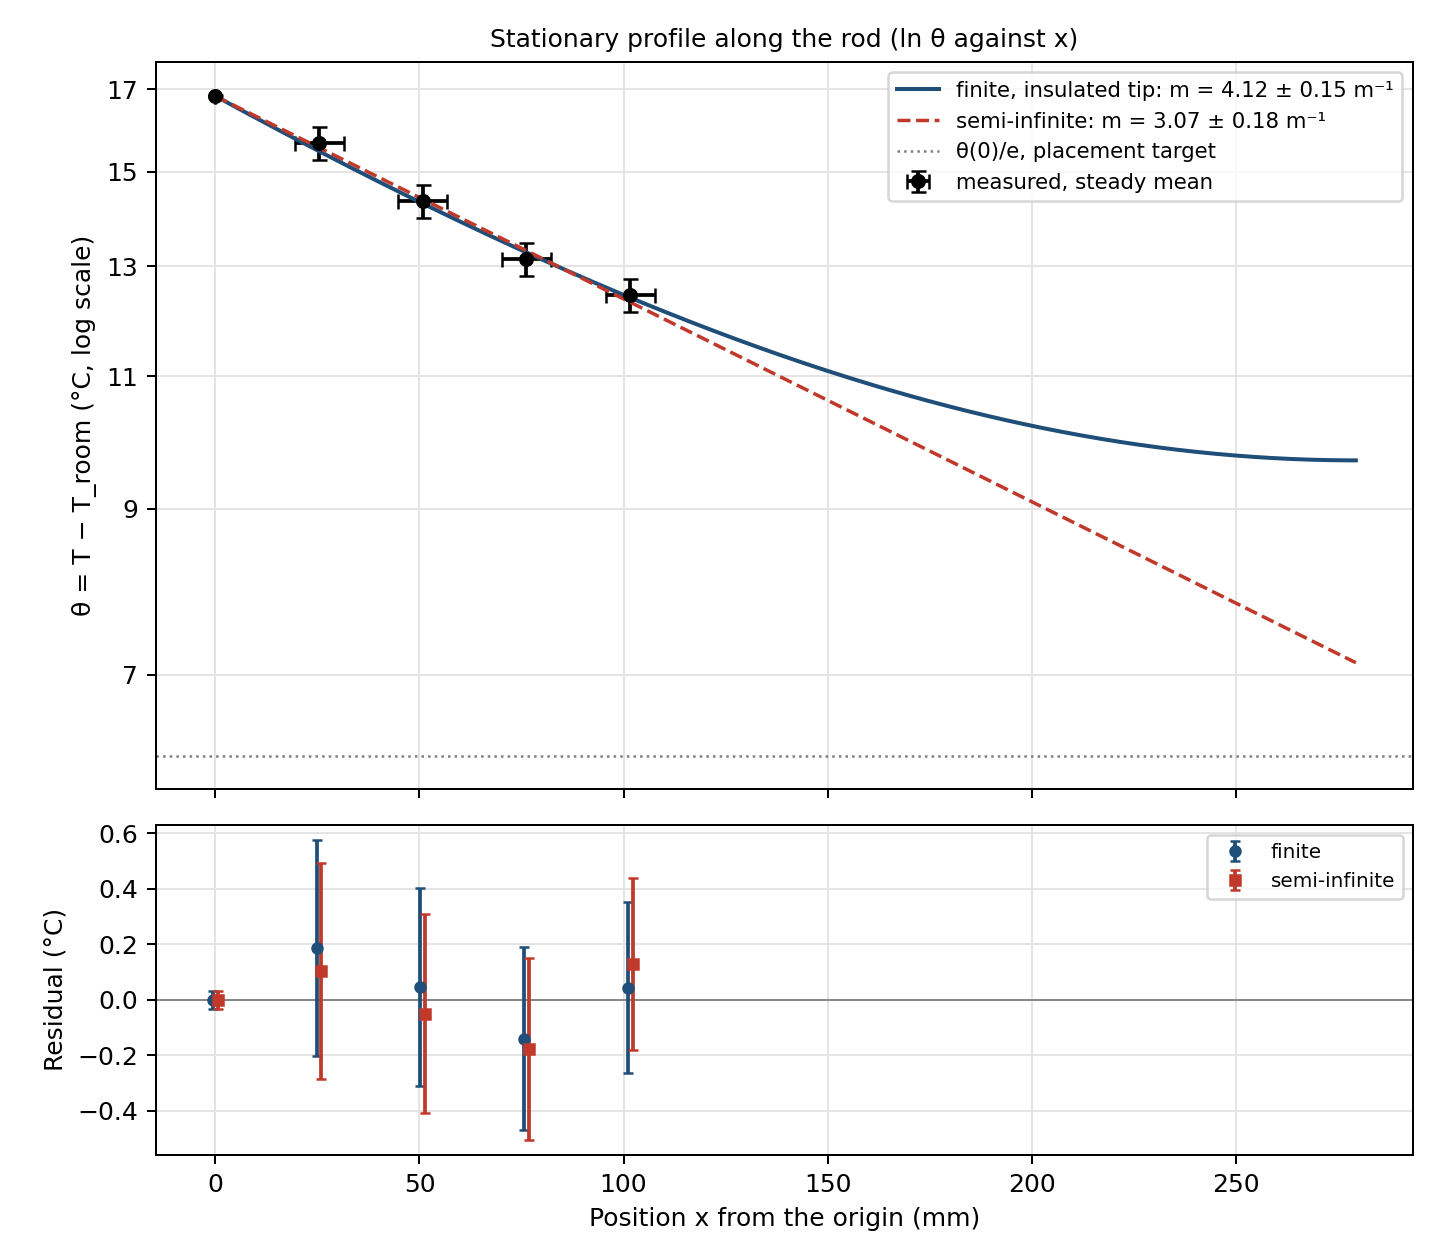
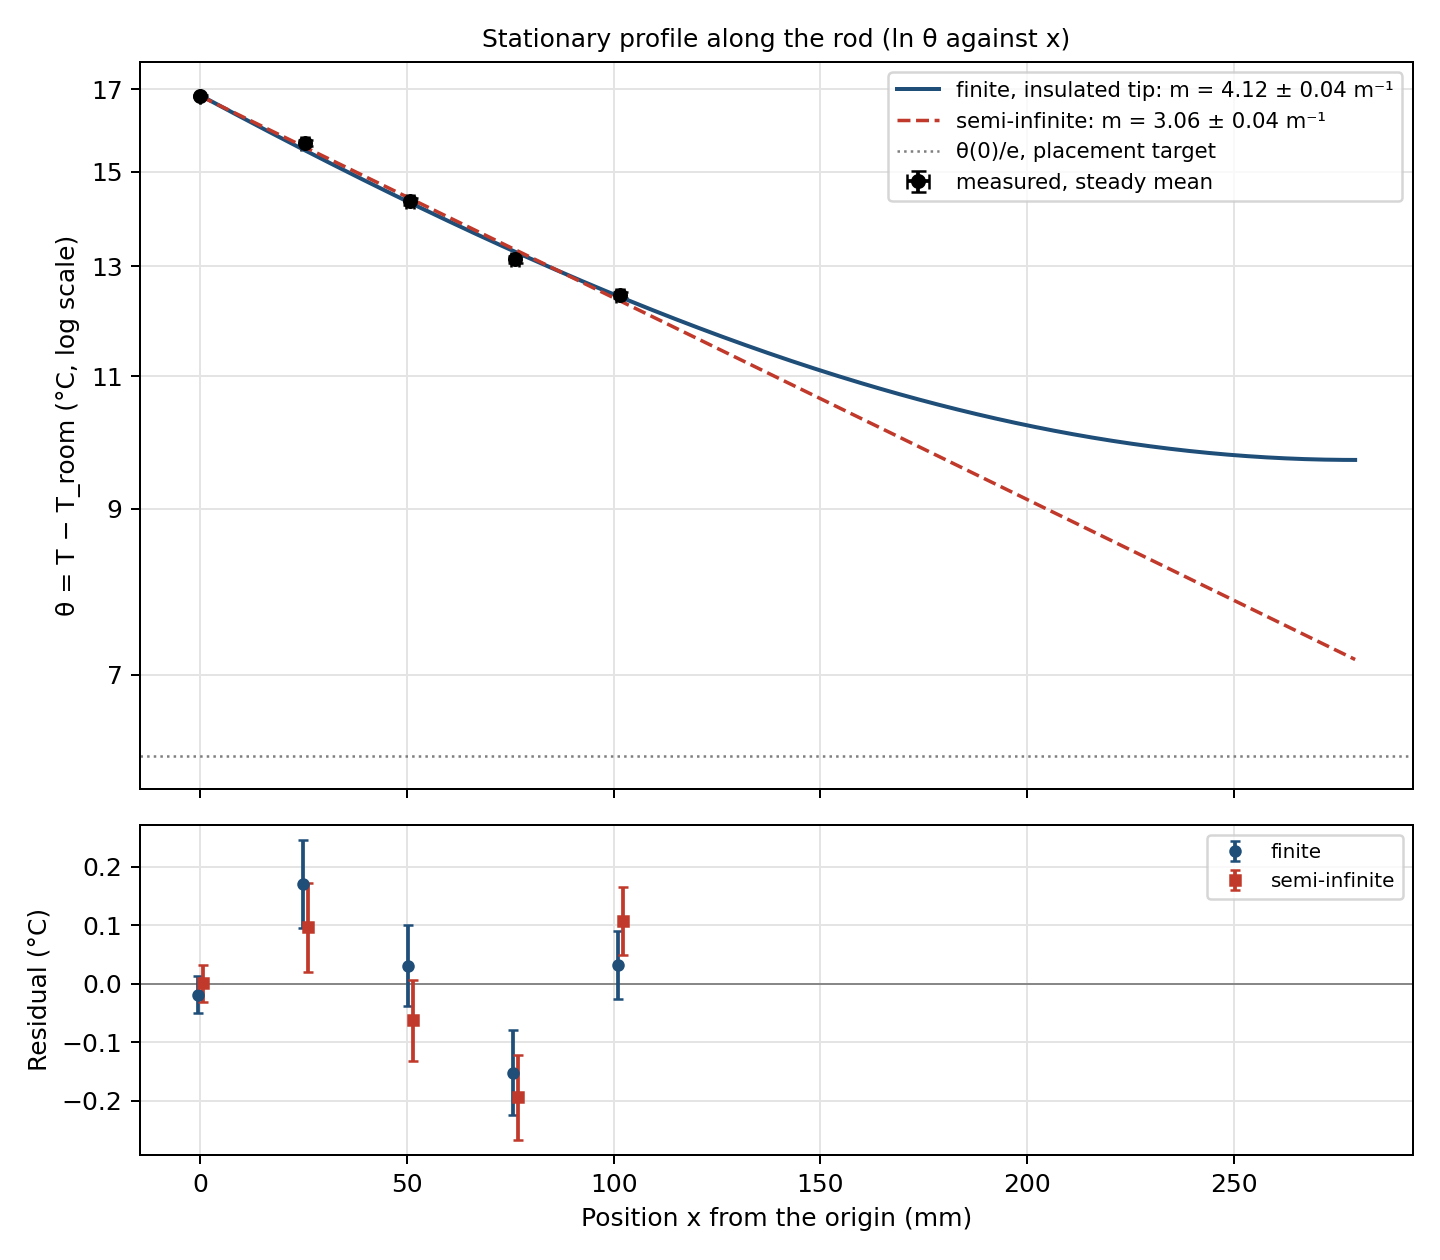
Module 7: measured sensor spacing (1 in, +/-1 mm), fin fit redone

diff --git a/docs/module_notes/module_08_stationary_fin.md b/docs/module_notes/module_08_stationary_fin.md
@@ -85,44 +85,51 @@ Output: [`fin_rod_run_20261028_092033.txt`](../../data/module_08/fin_rod_run_202
   the same run (13 to 87 s, 09:20, control off, before any heating), sd
   0.02 °C after offsets; the base thermistor read 20.98 °C. Measured with
   the same thermistors as θ, so a common calibration error cancels in θ.
-  Not re-measured at the end; a room drift since then is the main
-  uncertainty in θ. A ±0.5 °C change in T_room moves m
-  between 4.03 and 4.21 m⁻¹.
+  Not re-measured at the end. A ±0.5 °C change in T_room moves m
+  between 4.03 and 4.21 m⁻¹, which is larger than the fit uncertainty
+  below, so the room temperature is the dominant uncertainty in m.
 - L = 279.4 mm (about 11 in, R1's hole to the rod top, rough).
-- **Positions are provisional**: about 1 in apart, by eye, entered as
-  25.4 mm steps with a guessed ±6 mm. This guess dominates the point error
-  bars (σ about 0.3 to 0.4 °C on R2 to R5) and makes χ² small. Replace with
-  ruler values (±1 mm) and rerun.
+- Positions: holes 1 in (25.4 mm) apart, measured with a tape after the
+  run; ±1 mm each.
 
 | Channel | x (mm) | θ (°C) | σ (°C) | ε_T |
 |---|---|---|---|---|
 | R1 | 0.0 | 16.83 | 0.03 | 0.000 |
-| R2 | 25.4 | 15.66 | 0.39 | 0.021 |
-| R3 | 50.8 | 14.34 | 0.36 | 0.045 |
-| R4 | 76.2 | 13.13 | 0.33 | 0.074 |
-| R5 | 101.6 | 12.44 | 0.31 | 0.107 |
+| R2 | 25.4 | 15.66 | 0.08 | 0.021 |
+| R3 | 50.8 | 14.34 | 0.07 | 0.045 |
+| R4 | 76.2 | 13.13 | 0.07 | 0.074 |
+| R5 | 101.6 | 12.44 | 0.06 | 0.106 |
 
 | Quantity | Finite fit | Semi-infinite fit |
 |---|---|---|
-| m (1/m) | 4.12 ± 0.15 | 3.07 ± 0.18 |
-| 1/m (mm) | 243 ± 9 | 325 ± 19 |
-| θ0 (°C) | 16.83 | 16.83 |
-| χ² / dof | 0.45 / 3 | 0.55 / 3 |
-| Shift in m when the end is ignored | −1.04 m⁻¹ = −6.7 σ of the finite fit | |
+| m (1/m) | 4.12 ± 0.04 (± 0.07 scaled) | 3.06 ± 0.04 |
+| 1/m (mm) | 243 ± 2 | 327 ± 5 |
+| θ0 (°C) | 16.84 | 16.82 |
+| χ² / dof | 10.4 / 3 (p = 0.016) | 12.9 / 3 (p = 0.005) |
+| Shift in m when the end is ignored | −1.06 m⁻¹ = −29 σ of the finite fit | |
 | mL | 1.15 | |
 
-Both models fit the five points equally well (largest residual 0.19 °C,
-inside every error bar). The sensors only cover x ≤ 102 mm (mx ≤ 0.42), where
-a cosh and an exponential look almost the same. So the 6.7 σ difference in m
-comes from the assumed tip condition and L, not from the data. With
-mL = 1.15 the rod is not long compared with 1/m, and the finite model is
-the one to use; the far sensors (ε_T up to 0.11 at R5) are where ignoring
-the end matters most.
+**Neither χ² is acceptable.** The residuals (largest +0.17 °C at R2 and
+−0.15 °C at R4 for the finite fit) are about twice the point errors, so
+there is sensor-to-sensor scatter of roughly 0.15 °C that the error budget
+does not include. The calibration offsets were measured at room
+temperature only, so a channel whose error changes with temperature, or a
+thermistor with poorer contact to the rod, would show up exactly like this.
+Scaling the finite-fit uncertainty by √(χ²/dof) = 1.86 gives
+m = 4.12 ± 0.07 m⁻¹. A multipoint calibration (section 4 of the
+instrument note) would test the first explanation.
+
+The finite fit is the better of the two (Δχ² = 2.6), but the sensors only
+cover x ≤ 102 mm (mx ≤ 0.42), where a cosh and an exponential look almost
+the same, so most of the 1.06 m⁻¹ difference in m comes from the assumed tip
+condition and L rather than from the data. With mL = 1.15 the rod is not
+long compared with 1/m, and the finite model is the one to use; the far
+sensors (ε_T up to 0.11 at R5) are where ignoring the end matters most.
 
 **Placement check (course Part 2).** θ5/θ1 = 12.44/16.83 = 0.74 (0.73 to
 0.75 for T_room ± 0.5 °C). The target is θ5 ≤ θ1/e = 0.37: **not met**. From
 the finite fit, the farthest available hole (about 8 in from R1) would give
-θ/θ1 = 0.60 ± 0.02 and even the rod top only 0.58. Reaching 1/e at 8 in would
+θ/θ1 = 0.60 ± 0.01 and even the rod top only 0.58. Reaching 1/e at 8 in would
 need m ≈ 6.4 m⁻¹, that is h/k about 2.4 times larger. Moving sensors cannot
 meet the target on this set-up; raised with Prof. Fraden on 28 October.
 
@@ -134,7 +141,7 @@ Bi_⊥ = h R / (2k) = (m R)² / 4
 ```
 
 so the steady profile alone fixes Bi_⊥ once R is known. With m = 4.12 m⁻¹
-and R = 6.35 mm (nominal): Bi_⊥ = 1.7 × 10⁻⁴ ± 0.1 × 10⁻⁴, far below 0.1, so
+and R = 6.35 mm (nominal): Bi_⊥ = 1.7 × 10⁻⁴, far below 0.1, so
 one temperature per cross-section is a very good assumption. The same m
 gives h/k = m²R/2 = 0.054 m⁻¹.
 
@@ -149,11 +156,14 @@ involve the diffusivity and the loss rate differently.
 
 ## 5. Discussion points (first run)
 
-- **Sensor positions** are the weakest input today: by eye, about 1 in
-  apart. They set the error bars and the χ². Measure with a ruler.
+- **Sensor positions** were measured with a tape after the run: 1 in
+  apart, ±1 mm. At this precision they contribute about 0.07 °C per point.
 - **Room temperature** was measured once, about 70 minutes before the
-  steady window. ±0.5 °C moves m by about ±0.09 m⁻¹, less than the fit's
-  own ±0.15.
+  steady window. ±0.5 °C moves m by about ±0.09 m⁻¹, more than the fit's
+  own ±0.07: the largest single uncertainty in m. A room reading at the
+  end of each hold would remove it.
+- **Sensor-to-sensor scatter** of about 0.15 °C (χ²/dof = 3.5) beyond the
+  stated errors: calibration at one temperature only, or contact.
 - **Thermal contact.** A disturbance at about 10:18 (hands and a ruler near
   the rod while measuring the spacing, noted in the run) dropped R1 by
   0.4 °C and R2 by 0.2 °C within 30 s, with smaller dips farther up, while
@@ -161,5 +171,5 @@ involve the diffusivity and the loss rate differently.
   contact and draughts matter. The steady window starts about 15 min after
   that.
 - **Tip condition.** With all sensors in the first 102 mm the data cannot
-  tell the finite and semi-infinite shapes apart (χ² 0.45 vs 0.55). Sensors
+  separate the finite and semi-infinite shapes well (χ² 10.4 vs 12.9). Sensors
   spread out to the farthest hole would test it directly.

diff --git a/data/module_08/bench_log_2026-10-28.md b/data/module_08/bench_log_2026-10-28.md
@@ -42,11 +42,10 @@ files above are the record.
 **Room temperature.** 13 to 87 s: the five rod channels read 21.03 °C (sd
 0.02 °C) after offsets; base 20.98 °C. No room reading at the end.
 
-**Positions.** Measured by eye after the run: R1 to R2, R2 to R3, R3 to R4
-and R4 to R5 each "roughly an inch"; the farthest hole is about 4 in beyond
-R5; R1's hole to the rod top about 11 in. Entered in `sensor_map.csv` as
-provisional. **To do: ruler measurement (±1 mm), rod diameter with
-calipers, photograph.**
+**Positions.** Measured with a tape after the run: the holes holding R1 to
+R5 are 1 in (25.4 mm) apart, ±1 mm. The farthest hole is about 4 in beyond R5
+and R1's hole to the rod top about 11 in (rough). **To do: rod diameter with
+calipers, a room-temperature reading at the end of a hold, photograph.**
 
 ## Results
 
@@ -54,7 +53,7 @@ calipers, photograph.**
   and the figure of the same name. Non-oscillatory base step (peak
   45.07 °C); R1 to R5 rise 17.5, 16.3, 14.8, 13.6 and 12.8 °C with arrival
   times 6, 10, 15, 21 and 28 s.
-- Steady profile (last 300 s): m = 4.12 ± 0.15 m⁻¹ (finite, insulated tip),
+- Steady profile (last 300 s): m = 4.12 ± 0.07 m⁻¹ (finite, insulated tip, χ²/dof 3.5),
   θ5/θ1 = 0.74. The course placement target θ5 ≤ θ1/e is **not met**, and
   the fit predicts 0.60 at the farthest hole. Details:
   `docs/module_notes/module_08_stationary_fin.md`.

diff --git a/docs/module_notes/module_08_rod_instrument.md b/docs/module_notes/module_08_rod_instrument.md
@@ -220,7 +220,7 @@ python3 python/analysis/rod_step_response.py data/module_08/rod_run_20261028_092
 - **End.** Control off at 4646.8 s; the last 300 s meet the stationary
   criterion (section 3 of the fin note).
 
-| Channel | x (mm, provisional) | Change at the end (°C) | Arrival, +0.2 °C (s) | Half change (s) |
+| Channel | x (mm) | Change at the end (°C) | Arrival, +0.2 °C (s) | Half change (s) |
 |---|---|---|---|---|
 | base (A0) | plate | +25.00 | 2.2 | 10.7 |
 | R1 | 0 | +17.46 | 6.1 | 55.6 |
@@ -246,9 +246,9 @@ That is why the course takes R1, not the TEC thermistor, as the boundary.
 - [x] Thermistors cross-checked; calibration file and figure saved (26 Oct,
       checked again 28 Oct)
 - [ ] Sensor coordinates, origin, direction, uncertainties and wiring
-      documented. Origin and direction done (R1 = x = 0, up the rod);
-      **positions only by eye so far: ruler values, calipers and a photograph
-      still to do**
+      documented. Origin, direction and positions done (R1 = x = 0, holes
+      1 in apart up the rod, ±1 mm, tape); **calipers and a photograph still
+      to do**
 - [x] Synchronized multichannel logging with `rod_pi_logger.py` (28 Oct)
 - [x] Baseline and initial step-response data saved and plotted (run 092033)
 - [x] Every run has `_meta.json` and `_notes.csv`; for run 092033 the sensor
